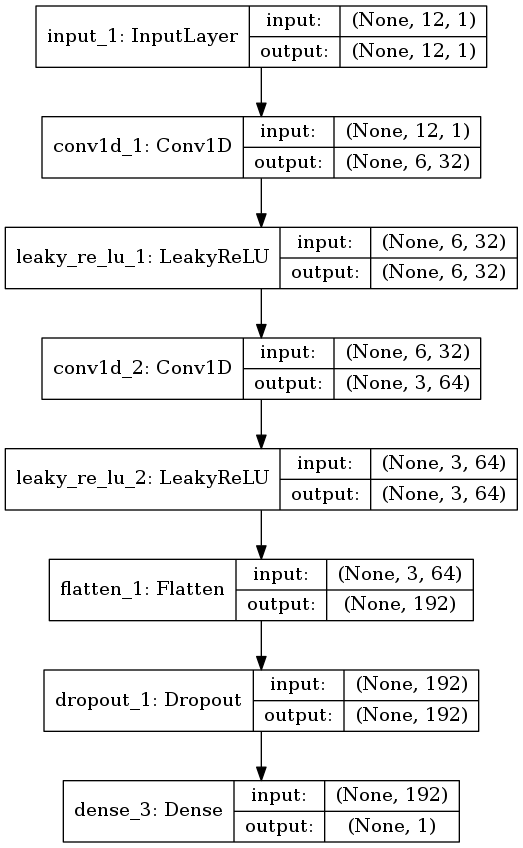
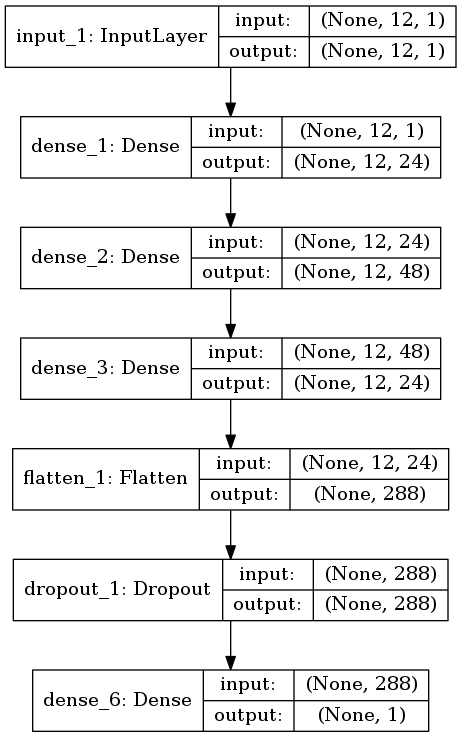
WIP

Changed region(s): [[0.0, 0.0, 1.0, 0.9986], [0.0, 0.749, 0.0304, 0.8426]]

diff --git a/src/model_1_hybrid.py b/src/model_1_hybrid.py
@@ -8,7 +8,6 @@ from keras.layers import Conv1D
 from keras.layers import UpSampling1D
 # import tensorflow as tf
 from keras.layers import LeakyReLU
-from keras.layers import ReLU
 from keras.layers import Dropout
 from keras.layers import Activation
 from keras.utils.vis_utils import plot_model
@@ -52,13 +51,13 @@ def same_model(a,b):
 #     d_model.compile(loss='binary_crossentropy', optimizer=Adam(lr=0.0002, beta_1=0.5), metrics=['accuracy'])
 #     return d_model, c_model
 
-def define_discriminator(in_shape=(12,1), n_classes=2):
+def define_discriminator(in_shape=(24,1), n_classes=2):
     # sample input
     in_sample = Input(shape=in_shape)
     # downsample
-    fe = Dense(24, activation='relu')(in_sample)
-    fe = Dense(48, activation='relu')(fe)
-    fe = Dense(24, activation='relu')(fe)
+    fe = Dense(70, activation='relu')(in_sample)
+    fe = Dense(140, activation='relu')(fe)
+    fe = Dense(70, activation='relu')(fe)
     # flatten feature maps
     fe = Flatten()(fe)
     # dropout
@@ -83,48 +82,28 @@ plot_model(c_model, to_file='./images/discriminator1_1_007_plot.png', show_shape
 plot_model(d_model, to_file='./images/discriminator2_1_007_plot.png', show_shapes=True, show_layer_names=True)
 
 # define the standalone generator model
-# def define_generator(latent_dim):
-  #   # image generator input
-  #   in_lat = Input(shape=(latent_dim,))
-  #   # foundation for 3x4 sample
-  #   n_nodes = 100 * 1
-  #   gen = Dense(n_nodes)(in_lat)
-  #   gen = LeakyReLU(alpha=0.2)(gen)
-  #   gen = Reshape((1,100))(gen)
-
-  #   gen = UpSampling1D(size=6)(gen)
-  #   gen = Conv1D(64, (3), strides=(2), padding='same')(gen)
-  #   gen = LeakyReLU(alpha=0.2)(gen)
-
-  #   gen = UpSampling1D(size=8)(gen)
-  #   gen = Conv1D(64, (3), strides=(2), padding='same')(gen)
-  #   gen = LeakyReLU(alpha=0.2)(gen)
-  #   # output
-  #   out_layer = Conv1D(1, (2), activation='tanh', padding='same')(gen)
-  #   # define model
-  #   model = Model(in_lat, out_layer)
-  #   return model
-
-# define the standalone generator model
 def define_generator(latent_dim):
     # image generator input
     in_lat = Input(shape=(latent_dim,))
     # foundation for 3x4 sample
     n_nodes = 100 * 1
     gen = Dense(n_nodes)(in_lat)
-    gen = Dense(24, activation='relu')(gen)
-    gen = UpSampling1D(size=2)(gen)
-    gen = Dense(48, activation='relu')(gen)
-    gen = UpSampling1D(size=2)(gen)
-    gen = Dense(12, activation='relu')(gen)
+    gen = LeakyReLU(alpha=0.2)(gen)
+    gen = Reshape((1,100))(gen)
 
-    out_layer = Reshape((12, 1))(gen)
- 
+    gen = UpSampling1D(size=12)(gen)
+    gen = Conv1D(64, (3), strides=(2), padding='same')(gen)
+    gen = LeakyReLU(alpha=0.2)(gen)
+
+    gen = UpSampling1D(size=8)(gen)
+    gen = Conv1D(64, (3), strides=(2), padding='same')(gen)
+    gen = LeakyReLU(alpha=0.2)(gen)
     # output
+    out_layer = Conv1D(1, (2), activation='tanh', padding='same')(gen)
     # define model
     model = Model(in_lat, out_layer)
     return model
 
 ##### plot the Generator
 g_model = define_generator(100)
-plot_model(g_model, to_file='./images/generator_1_007_.png', show_shapes=True, show_layer_names=True)
+plot_model(g_model, to_file='./images/generator_hybrid.png', show_shapes=True, show_layer_names=True)

diff --git a/src/model_1_021.py b/src/model_1_021.py
@@ -1,0 +1,75 @@
+from keras.layers import Input
+from keras.optimizers import Adam
+from keras.models import Model
+from keras.layers import Dense
+from keras.layers import Reshape
+from keras.layers import Flatten
+from keras.layers import Conv1D
+from keras.layers import UpSampling1D
+from keras.layers import LeakyReLU
+from keras.layers import Dropout
+from keras.layers import Activation
+from keras.utils.vis_utils import plot_model
+
+# created to make sure that both discriminator models have the same wheights
+def same_model(a,b):
+    return any([array_equal(a1, a2) for a1, a2 in zip(a.get_weights(), b.get_weights())])
+
+# define the standalone supervised and unsupervised discriminator models
+def define_discriminator(in_shape=(96,1), n_classes=2):
+    # image input
+    in_sample = Input(shape=in_shape)
+    # fully connected layers
+    fe = Dense(180, activation='relu')(in_sample)
+    fe = Dense(360, activation='relu')(fe)
+    fe = Dense(180, activation='relu')(fe)
+    # flatten feature maps
+    fe = Flatten()(fe)
+    # dropout
+    fe = Dropout(0.2)(fe)
+    # output layer nodes
+    fe = Dense(n_classes)(fe)
+    # supervised output
+    c_out_layer = Activation('softmax')(fe)
+    # define and compile supervised discriminator model
+    c_model = Model(in_sample, c_out_layer)
+    c_model.compile(loss='sparse_categorical_crossentropy', optimizer=Adam(lr=0.0002, beta_1=0.5), metrics=['accuracy'])
+    # unsupervised output
+    # d_out_layer = Lambda(custom_activation)(fe)
+    d_out_layer =  Dense(1, activation='sigmoid')(fe)
+    # define and compile unsupervised discriminator model
+    d_model = Model(in_sample, d_out_layer)
+    d_model.compile(loss='binary_crossentropy', optimizer=Adam(lr=0.0002, beta_1=0.5), metrics=['accuracy'])
+    return d_model, c_model
+
+##### plot the Discriminator
+# d_model, c_model = define_discriminator()
+# plot_model(c_model, to_file='./images/discriminator1_5x5_plot.png', show_shapes=True, show_layer_names=True)
+# plot_model(d_model, to_file='./images/discriminator2_5x5_plot.png', show_shapes=True, show_layer_names=True)
+
+# define the standalone generator model
+def define_generator(latent_dim):
+    # sample generator input
+    in_lat = Input(shape=(latent_dim,))
+    # foundation for 5x5 sample
+    n_nodes = 100 * 1
+    gen = Dense(n_nodes)(in_lat)
+    gen = LeakyReLU(alpha=0.2)(gen)
+    gen = Reshape((1, 100))(gen)
+    # upsample to 2x2
+    gen = UpSampling1D(size=192)(gen)
+    gen = Conv1D(96, (3), strides=(4), padding='same')(gen)
+    gen = LeakyReLU(alpha=0.2)(gen)
+
+    gen = UpSampling1D(size=10)(gen)
+    gen = Conv1D(96, (3), strides=(5), padding='same')(gen)
+    gen = LeakyReLU(alpha=0.2)(gen)
+    # output
+    out_layer = Conv1D(1, (2), activation='tanh', padding='same')(gen)
+    # define model
+    model = Model(in_lat, out_layer)
+    return model
+
+##### plot the Generator
+g_model = define_generator(100)
+plot_model(g_model, to_file='./images/generator_021.png', show_shapes=True, show_layer_names=True)

diff --git a/src/gGAN.py b/src/gGAN.py
@@ -174,6 +174,7 @@ def create_mask(arr):
 # generate samples and save as a plot and save the model
 def summarize_performance_(step, g_model, d_model, c_model, labeled_test_dataset, path, count, save_performance=False):
     X, y = labeled_test_dataset
+    n_tests = y.shape[0]
     predict_d = d_model.predict(X, verbose=0)
     predict_c = c_model.predict(X, verbose=0)
     mask = create_mask(predict_d)
@@ -181,6 +182,7 @@ def summarize_performance_(step, g_model, d_model, c_model, labeled_test_dataset
     y = y[mask]
     loss = 0
     acc = 0 
+    unsup_acc = y.shape[0]/n_tests
     if(X.shape[0]>0):
         loss, acc = c_model.evaluate(X, y, verbose=0)
     if(save_performance):
@@ -195,7 +197,7 @@ def summarize_performance_(step, g_model, d_model, c_model, labeled_test_dataset
         filename2 = new_path + 'c_model_%04d.h5' % (step+1)
         c_model.save(filename2)
         print('>Saved: %s and %s' % (filename1, filename2))
-    return y.shape[0], loss, acc
+    return unsup_acc , loss, acc
 
 
 # train the generator and discriminator
@@ -268,7 +270,7 @@ def main():
     parser.add_argument("dim", help="Number of dimensions of the formated sample. Options are: 1 (Conv1D) or 2 (Conv2D)")
     args = parser.parse_args()
     
-    enabled_models = ['0.07', '0.10', '0.21']
+    enabled_models = ['0.07', '0.10', '0.21', 'hybrid', 'SVM']
     enabled_dims = [1,2]
 
     # check model argument to make sure the right model is set if not then exit
@@ -283,7 +285,10 @@ def main():
         exit()
 
     afd = args.afd.replace(".", "")
-    net_model = __import__('model_'+args.dim+'_'+afd, globals(), locals(), 0)
+    if(str(afd) == 'SVM'):
+        net_model = __import__('model_'+args.dim+'_007', globals(), locals(), 0)
+    else:
+        net_model = __import__('model_'+args.dim+'_'+afd, globals(), locals(), 0)
 
     print("[INFO] Pre-Processing Data...")
     print("[INFO] Dimensions: ", args.dim)

diff --git a/src/data/pre_processing.py b/src/data/pre_processing.py
@@ -198,7 +198,7 @@ def current_sampling(afp):
         f.write(afp)
         return False
 
-def init(afp, dim):
+def init(afd, dim):
 
     #if current_sampling(afp):
     #return
@@ -216,8 +216,12 @@ def init(afp, dim):
 
     labeled_data = labeled_data[unlabeled_data.columns]
 
-    mask = pd.read_csv('./data/masks/max_diff_'+str(afp)+'.csv', index_col=None, header=None)
-    # mask = pd.read_csv('data/masks/dengue_paper.csv', index_col=None, header=None)
+    if(str(afd) == 'SVM'):
+        mask = pd.read_csv('data/masks/dengue_paper.csv', index_col=None, header=None)
+    elif(str(afd) == 'hybrid'):
+        mask = pd.read_csv('data/masks/hybrid.csv', index_col=None, header=None)
+    else:
+        mask = pd.read_csv('./data/masks/max_diff_'+str(afd)+'.csv', index_col=None, header=None)
 
     labeled_data = labeled_data[mask[1].tolist()]
     unlabeled_data = unlabeled_data[mask[1].tolist()]
